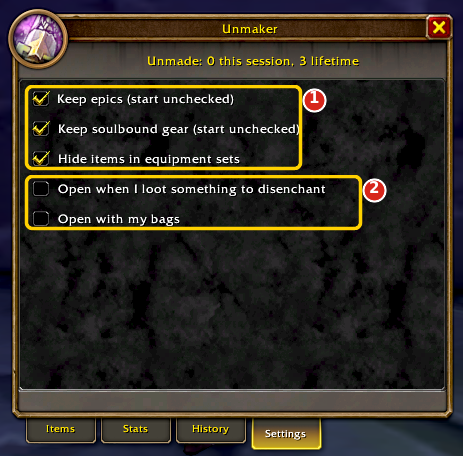
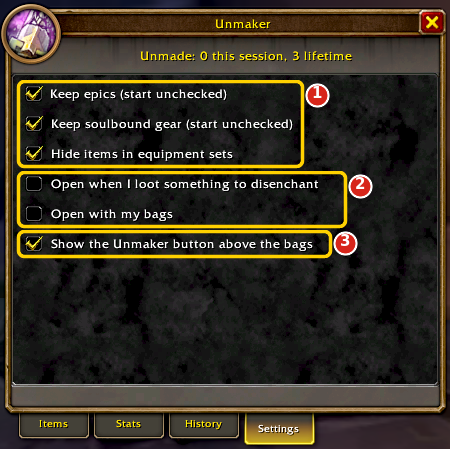
docs: Unmaker Settings screenshot with the bag button box
The owner retook the Settings tab with the new box; it is annotated like
the other shots and the README legend gains a third item.

diff --git a/README.md b/README.md
@@ -150,12 +150,13 @@ Disenchanting without the hunt through your bags. One window lists everything yo
 2. **Got:** the materials each disenchant gave.
 
 <p align="center">
-  <img src="docs/screenshots/unmaker-settings.png" alt="Unmaker's Settings tab: keep epics, keep soulbound gear, hide equipment-set items, open when you loot, open with your bags" width="420">
+  <img src="docs/screenshots/unmaker-settings.png" alt="Unmaker's Settings tab: keep epics, keep soulbound gear, hide equipment-set items, open when you loot, open with your bags, show the button above the bags" width="420">
 </p>
 
 **Settings tab:**
 1. **What starts unchecked or hidden:** epics, soulbound gear and items in your equipment sets.
 2. **When the window opens by itself:** when you loot gear to disenchant, or with your bags. Only on characters that know Disenchant.
+3. **Bag button:** show or hide the Unmaker button above your bags. On by default; `/unmaker` opens the window either way.
 
 <p align="center"><sub>Game art in the screenshots © Blizzard Entertainment, Inc.</sub></p>
 
